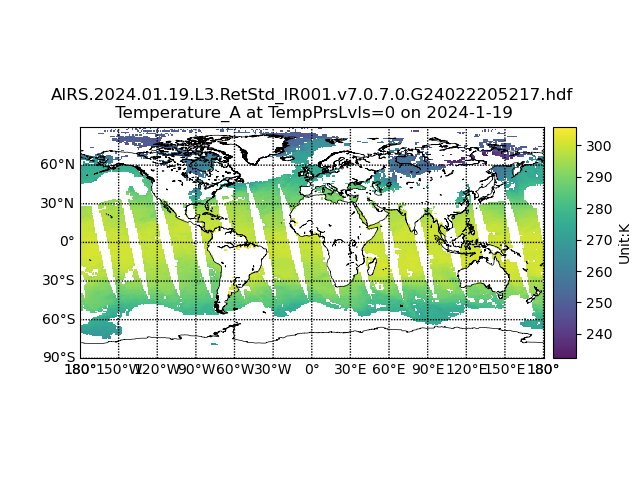
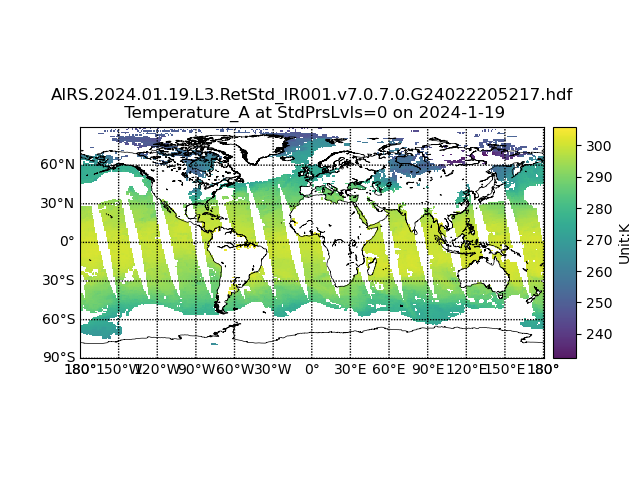
fix: airs v7 grid python dim name

Changed region(s): [[0.1875, 0.2188, 0.8125, 0.2812]]

diff --git a/GESDISC/AIRS.2024.01.19.L3.RetStd_IR001.v7.0.7.0.G24022205217.hdf.py b/GESDISC/AIRS.2024.01.19.L3.RetStd_IR001.v7.0.7.0.G24022205217.hdf.py
@@ -16,7 +16,7 @@ Usage:  save this script and run
 The HDF file must be in your current working directory.
 
 Tested under: Python 3.9.1 :: Miniconda
-Last updated: 2024-01-24
+Last updated: 2024-01-31
 """
 
 import os
@@ -96,7 +96,7 @@ cb = m.colorbar()
 cb.set_label("Unit:K")
 basename = os.path.basename(FILE_NAME)
 plt.title(
-    "{0}\n {1} at TempPrsLvls=0 on {2}".format(basename, DATAFIELD_NAME, date)
+    "{0}\n {1} at StdPrsLvls=0 on {2}".format(basename, DATAFIELD_NAME, date)
 )
 fig = plt.gcf()
 pngfile = "{0}.py.png".format(basename)
